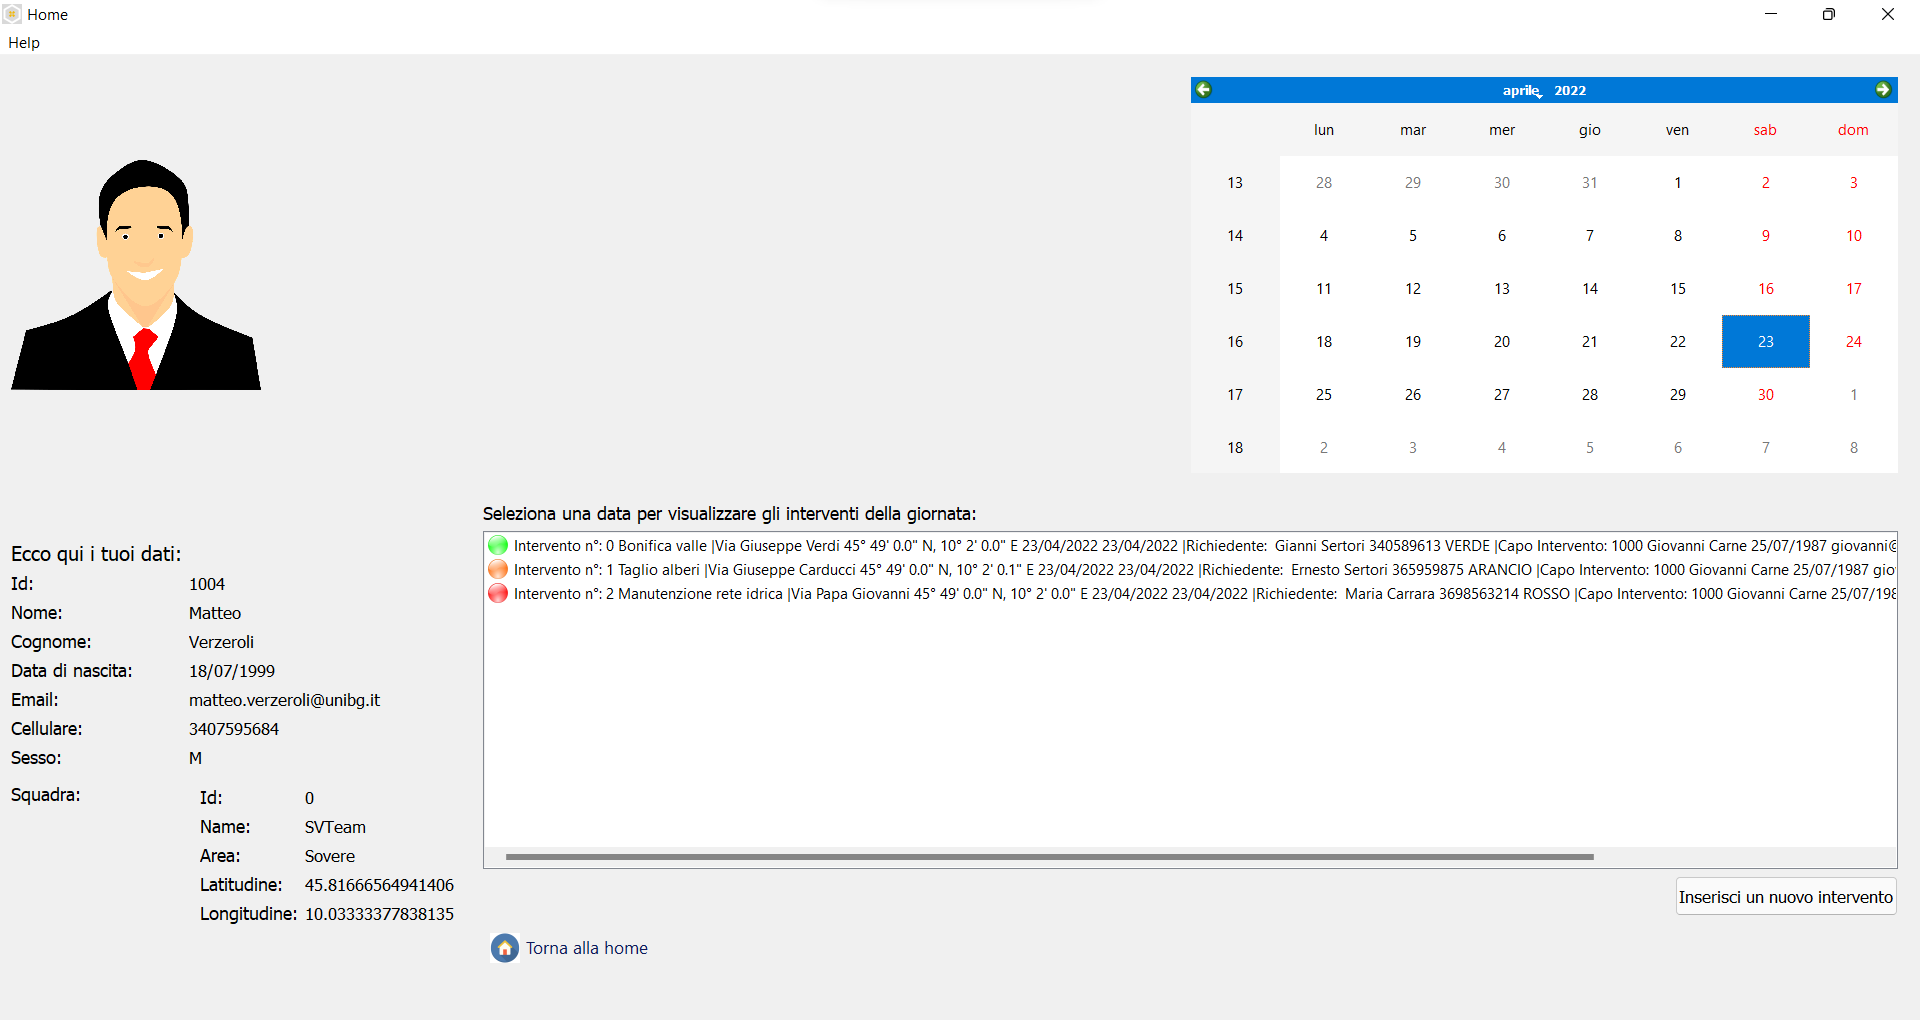
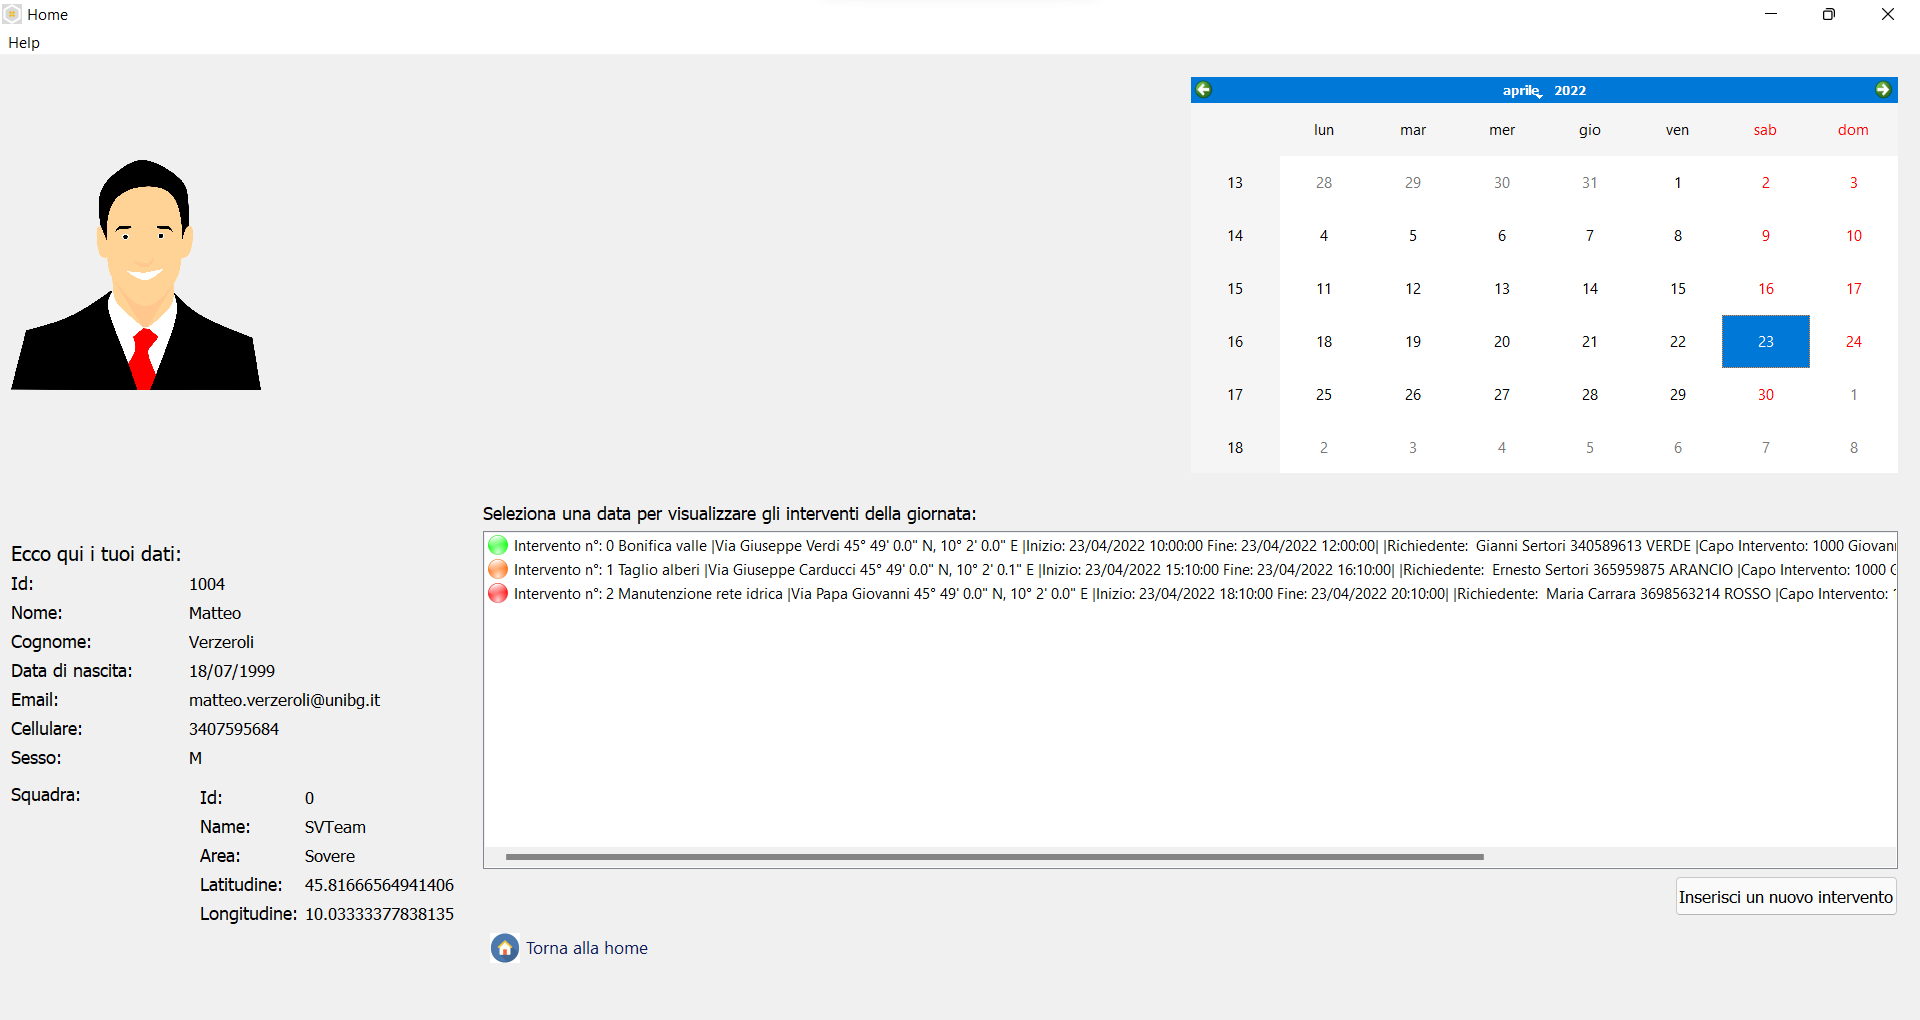
aggiunta sezione enum nella documentazione c++ e aggiunto color.h

Changed region(s): [[0.5312, 0.5167, 1.0, 0.6078], [0.7812, 0.8206, 0.8438, 0.851]]

diff --git a/Progetto_C++/PCTeams/operation/operation.cpp b/Progetto_C++/PCTeams/operation/operation.cpp
@@ -26,15 +26,13 @@ QString Operation::toString()
     return  "Intervento n°: " +
             QString::number(idoperation) + " " +
             name + " |" + address + " " +
-            coordinate->toString() + " " +
-            starttime->toString("dd/MM/yyyy") + " " +
-            finishtime->toString("dd/MM/yyyy") + " " +
+            coordinate->toString() + " |" +
+            "Inizio: " + starttime->toString("dd/MM/yyyy hh:mm:ss") + " " +
+            "Fine: " + finishtime->toString("dd/MM/yyyy hh:mm:ss") + "| " +
             "|Richiedente: " + " " + petitioner + " " +
             cellnumber + " " + colorToString(color) + " " +
             "|Capo Intervento: " + leader->toString() + " " +
             "|Squadra: " + team->getName();
-
-
 }
 
 int Operation::getIdoperation() const
@@ -155,12 +153,13 @@ const QString Operation::colorToString(COLOR c)
 
 const QIcon Operation::colorToIcon(COLOR c)
 {
-    if(c == COLOR::GREEN)
-        return QIcon(":/img/img/green");
-    else if(c == COLOR::ORANGE)
-        return QIcon(":/img/img/orange");
-    else
-        return QIcon(":/img/img/red");
+    switch (c)
+    {
+        case COLOR::RED:   return QIcon(":/img/img/red");
+        case COLOR::ORANGE:   return QIcon(":/img/img/orange");
+        case COLOR::GREEN: return QIcon(":/img/img/green");
+        default : return QIcon("");
+    }
 }
 
 COLOR Operation::stringToColor(QString s)

diff --git a/Documentazione/TextFiles/Progetto C++.tex b/Documentazione/TextFiles/Progetto C++.tex
@@ -157,6 +157,11 @@ Nel progetto realizzato, si sono spesso utilizzati degli \textit{smart pointers}
 In molte occasioni, si sono utilizzati i \textit{template}, come ad esempio la definizione del tipo degli \textit{smart poiter}, delle mappe e dei \textit{vector} creati. Nella classe \texttt{Helpers} si è anche scritto un metodo che restituisce un vettore di tutti i valori contenuti nella mappa, passata come argomento. Affinché questo metodo fosse generico per ogni tipo di mappa chiave-valore, si è scelto di implementarlo utilizzando i \textit{template} nel seguente modo:
 \lstinputlisting[language=C++]{./OtherFiles/template.cpp}
 
+\subsection{Enum}
+All'interno dell'applicazione si è inoltre definito un tipo \texttt{enum} per rappresentare la criticità di un intervento, definendolo nel seguente modo:
+\lstinputlisting[language=C++]{./OtherFiles/enum.cpp}
+Sono stati poi inseriti dei metodi statici nella classe \texttt{Operation} per gestire l'utilizzo della enumerazione.
+
 \subsection{Friend}
 A scopo di debug, è stato definito l'operatore \textit{<<} per gli oggetti di tipo \texttt{User}. Dal momento che si accedeva ai membri privati della classe, la definizione è stata dichiara friend nel modo seguente:
 \lstinputlisting[language=C++]{./OtherFiles/friend.cpp}

diff --git a/Progetto_C++/PCTeams/operation/operation.h b/Progetto_C++/PCTeams/operation/operation.h
@@ -8,20 +8,13 @@
 #include <memory>
 #include "user/user.h"
 #include "team/team.h"
-
-enum class COLOR {
-    RED,
-    ORANGE,
-    GREEN
-};
+#include "color.h"
 
 class Operation
 {
 public:
     Operation();
     Operation(const QString &name, const QString &address, QGeoCoordinate *coordinate, const QString &petitioner, const QString &cellnumber, COLOR color, const std::shared_ptr<User> leader, const std::shared_ptr<Team> team, QDateTime *starttime, QDateTime *finishtime);
-
-    QString toString();
 
     ~Operation(){
         delete coordinate;
@@ -50,6 +43,8 @@ public:
     void setStarttime(QDateTime *newStarttime);
     QDateTime *getFinishtime() const;
     void setFinishtime(QDateTime *newFinishtime);
+
+    QString toString();
 
     static const QString colorToString(COLOR c);
     static const QIcon colorToIcon(COLOR c);

diff --git a/Progetto_C++/PCTeams/operation/color.h b/Progetto_C++/PCTeams/operation/color.h
@@ -1,0 +1,10 @@
+#ifndef COLOR_H
+#define COLOR_H
+
+enum class COLOR {
+    RED,
+    ORANGE,
+    GREEN
+};
+
+#endif // COLOR_H

diff --git a/Documentazione/OtherFiles/enum.cpp b/Documentazione/OtherFiles/enum.cpp
@@ -1,0 +1,5 @@
+enum class COLOR {
+    RED,
+    ORANGE,
+    GREEN
+};
